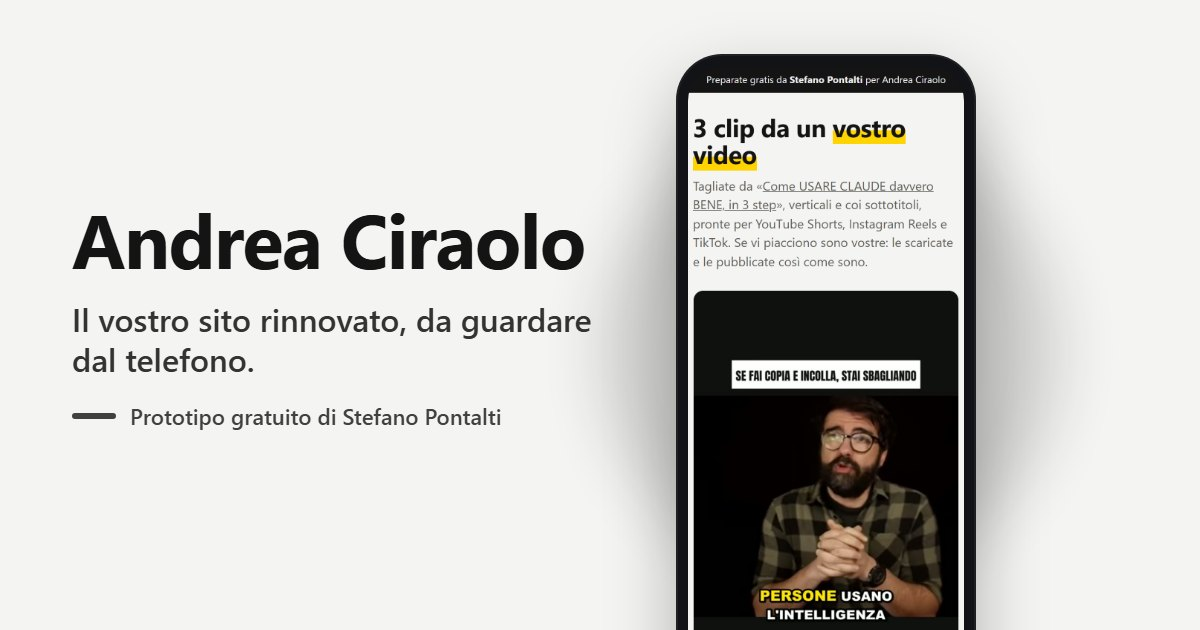
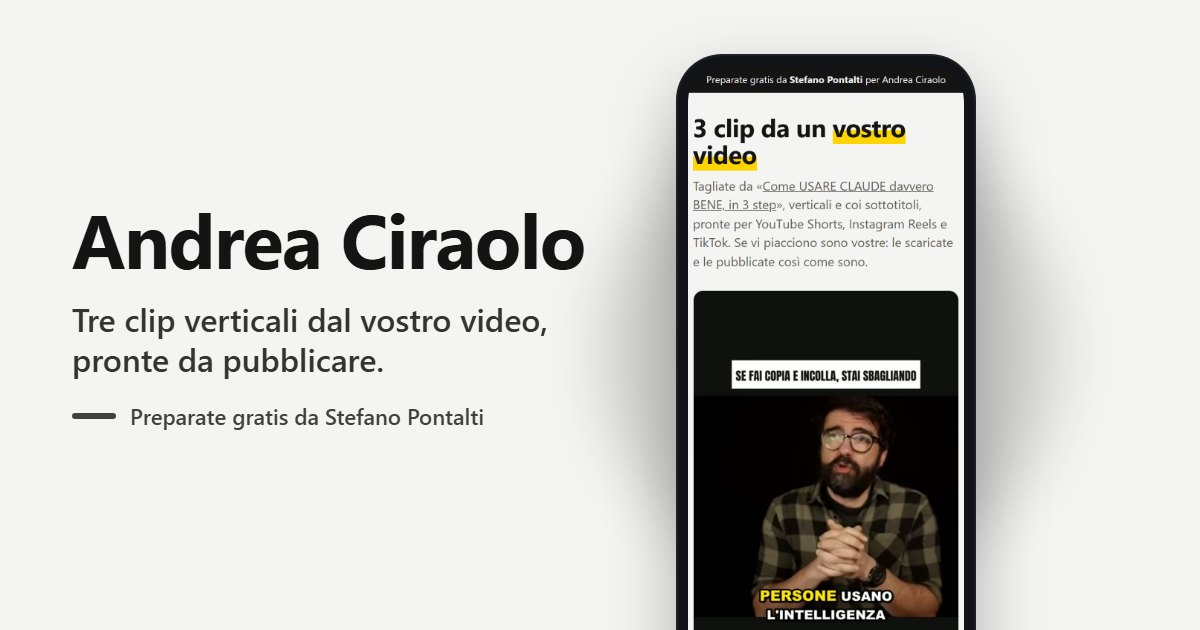
Clip: immagini di anteprima

Changed region(s): [[0.0617, 0.4825, 0.4933, 0.6032], [0.1233, 0.6333, 0.4317, 0.6937]]

diff --git a/clip-podcast-italiano/index.html b/clip-podcast-italiano/index.html
@@ -8,13 +8,13 @@
 <meta name="description" content="Tre clip verticali da un vostro video, pronte per Shorts, Reels e TikTok.">
 <!-- anteprima WhatsApp: automazioni/controlli/anteprima-prototipo.py -->
 <meta property="og:type" content="website">
-<meta property="og:title" content="Podcast Italiano: il sito rinnovato">
-<meta property="og:description" content="Prototipo gratuito preparato da Stefano Pontalti. Da guardare dal telefono, senza impegno.">
+<meta property="og:title" content="Podcast Italiano: 3 clip pronte da pubblicare">
+<meta property="og:description" content="Tre clip verticali preparate gratis da Stefano Pontalti. Da guardare dal telefono.">
 <meta property="og:url" content="https://stefanopontalti07-cloud.github.io/prototipi/clip-podcast-italiano/">
-<meta property="og:image" content="https://stefanopontalti07-cloud.github.io/prototipi/clip-podcast-italiano/assets/og.jpg?v=202611262159">
+<meta property="og:image" content="https://stefanopontalti07-cloud.github.io/prototipi/clip-podcast-italiano/assets/og.jpg?v=202611262203">
 <meta property="og:image:width" content="1200">
 <meta property="og:image:height" content="630">
-<meta property="og:image:alt" content="Il sito rinnovato di Podcast Italiano su un telefono">
+<meta property="og:image:alt" content="Le clip per  su un telefono">
 <meta name="twitter:card" content="summary_large_image">
 <!-- /anteprima -->
 <meta name="theme-color" content="#111111">

diff --git a/clip-andrea-presti/index.html b/clip-andrea-presti/index.html
@@ -8,13 +8,13 @@
 <meta name="description" content="Tre clip verticali da un vostro video, pronte per Shorts, Reels e TikTok.">
 <!-- anteprima WhatsApp: automazioni/controlli/anteprima-prototipo.py -->
 <meta property="og:type" content="website">
-<meta property="og:title" content="Andrea Presti: il sito rinnovato">
-<meta property="og:description" content="Prototipo gratuito preparato da Stefano Pontalti. Da guardare dal telefono, senza impegno.">
+<meta property="og:title" content="Andrea Presti: 3 clip pronte da pubblicare">
+<meta property="og:description" content="Tre clip verticali preparate gratis da Stefano Pontalti. Da guardare dal telefono.">
 <meta property="og:url" content="https://stefanopontalti07-cloud.github.io/prototipi/clip-andrea-presti/">
-<meta property="og:image" content="https://stefanopontalti07-cloud.github.io/prototipi/clip-andrea-presti/assets/og.jpg?v=202611262159">
+<meta property="og:image" content="https://stefanopontalti07-cloud.github.io/prototipi/clip-andrea-presti/assets/og.jpg?v=202611262203">
 <meta property="og:image:width" content="1200">
 <meta property="og:image:height" content="630">
-<meta property="og:image:alt" content="Il sito rinnovato di Andrea Presti su un telefono">
+<meta property="og:image:alt" content="Le clip per  su un telefono">
 <meta name="twitter:card" content="summary_large_image">
 <!-- /anteprima -->
 <meta name="theme-color" content="#111111">

diff --git a/clip-one-more-time/index.html b/clip-one-more-time/index.html
@@ -8,13 +8,13 @@
 <meta name="description" content="Tre clip verticali da un vostro video, pronte per Shorts, Reels e TikTok.">
 <!-- anteprima WhatsApp: automazioni/controlli/anteprima-prototipo.py -->
 <meta property="og:type" content="website">
-<meta property="og:title" content="One More Time: il sito rinnovato">
-<meta property="og:description" content="Prototipo gratuito preparato da Stefano Pontalti. Da guardare dal telefono, senza impegno.">
+<meta property="og:title" content="One More Time: 3 clip pronte da pubblicare">
+<meta property="og:description" content="Tre clip verticali preparate gratis da Stefano Pontalti. Da guardare dal telefono.">
 <meta property="og:url" content="https://stefanopontalti07-cloud.github.io/prototipi/clip-one-more-time/">
-<meta property="og:image" content="https://stefanopontalti07-cloud.github.io/prototipi/clip-one-more-time/assets/og.jpg?v=202611262159">
+<meta property="og:image" content="https://stefanopontalti07-cloud.github.io/prototipi/clip-one-more-time/assets/og.jpg?v=202611262203">
 <meta property="og:image:width" content="1200">
 <meta property="og:image:height" content="630">
-<meta property="og:image:alt" content="Il sito rinnovato di One More Time su un telefono">
+<meta property="og:image:alt" content="Le clip per  su un telefono">
 <meta name="twitter:card" content="summary_large_image">
 <!-- /anteprima -->
 <meta name="theme-color" content="#111111">

diff --git a/clip-ciraolo/index.html b/clip-ciraolo/index.html
@@ -8,13 +8,13 @@
 <meta name="description" content="Tre clip verticali da un vostro video, pronte per Shorts, Reels e TikTok.">
 <!-- anteprima WhatsApp: automazioni/controlli/anteprima-prototipo.py -->
 <meta property="og:type" content="website">
-<meta property="og:title" content="Andrea Ciraolo: il sito rinnovato">
-<meta property="og:description" content="Prototipo gratuito preparato da Stefano Pontalti. Da guardare dal telefono, senza impegno.">
+<meta property="og:title" content="Andrea Ciraolo: 3 clip pronte da pubblicare">
+<meta property="og:description" content="Tre clip verticali preparate gratis da Stefano Pontalti. Da guardare dal telefono.">
 <meta property="og:url" content="https://stefanopontalti07-cloud.github.io/prototipi/clip-ciraolo/">
-<meta property="og:image" content="https://stefanopontalti07-cloud.github.io/prototipi/clip-ciraolo/assets/og.jpg?v=202611262159">
+<meta property="og:image" content="https://stefanopontalti07-cloud.github.io/prototipi/clip-ciraolo/assets/og.jpg?v=202611262203">
 <meta property="og:image:width" content="1200">
 <meta property="og:image:height" content="630">
-<meta property="og:image:alt" content="Il sito rinnovato di Andrea Ciraolo su un telefono">
+<meta property="og:image:alt" content="Le clip per  su un telefono">
 <meta name="twitter:card" content="summary_large_image">
 <!-- /anteprima -->
 <meta name="theme-color" content="#111111">

diff --git a/clip-altro/index.html b/clip-altro/index.html
@@ -8,13 +8,13 @@
 <meta name="description" content="Tre clip verticali da un vostro video, pronte per Shorts, Reels e TikTok.">
 <!-- anteprima WhatsApp: automazioni/controlli/anteprima-prototipo.py -->
 <meta property="og:type" content="website">
-<meta property="og:title" content="altro: il sito rinnovato">
-<meta property="og:description" content="Prototipo gratuito preparato da Stefano Pontalti. Da guardare dal telefono, senza impegno.">
+<meta property="og:title" content="altro: 3 clip pronte da pubblicare">
+<meta property="og:description" content="Tre clip verticali preparate gratis da Stefano Pontalti. Da guardare dal telefono.">
 <meta property="og:url" content="https://stefanopontalti07-cloud.github.io/prototipi/clip-altro/">
-<meta property="og:image" content="https://stefanopontalti07-cloud.github.io/prototipi/clip-altro/assets/og.jpg?v=202611262159">
+<meta property="og:image" content="https://stefanopontalti07-cloud.github.io/prototipi/clip-altro/assets/og.jpg?v=202611262203">
 <meta property="og:image:width" content="1200">
 <meta property="og:image:height" content="630">
-<meta property="og:image:alt" content="Il sito rinnovato di altro su un telefono">
+<meta property="og:image:alt" content="Le clip per  su un telefono">
 <meta name="twitter:card" content="summary_large_image">
 <!-- /anteprima -->
 <meta name="theme-color" content="#111111">
